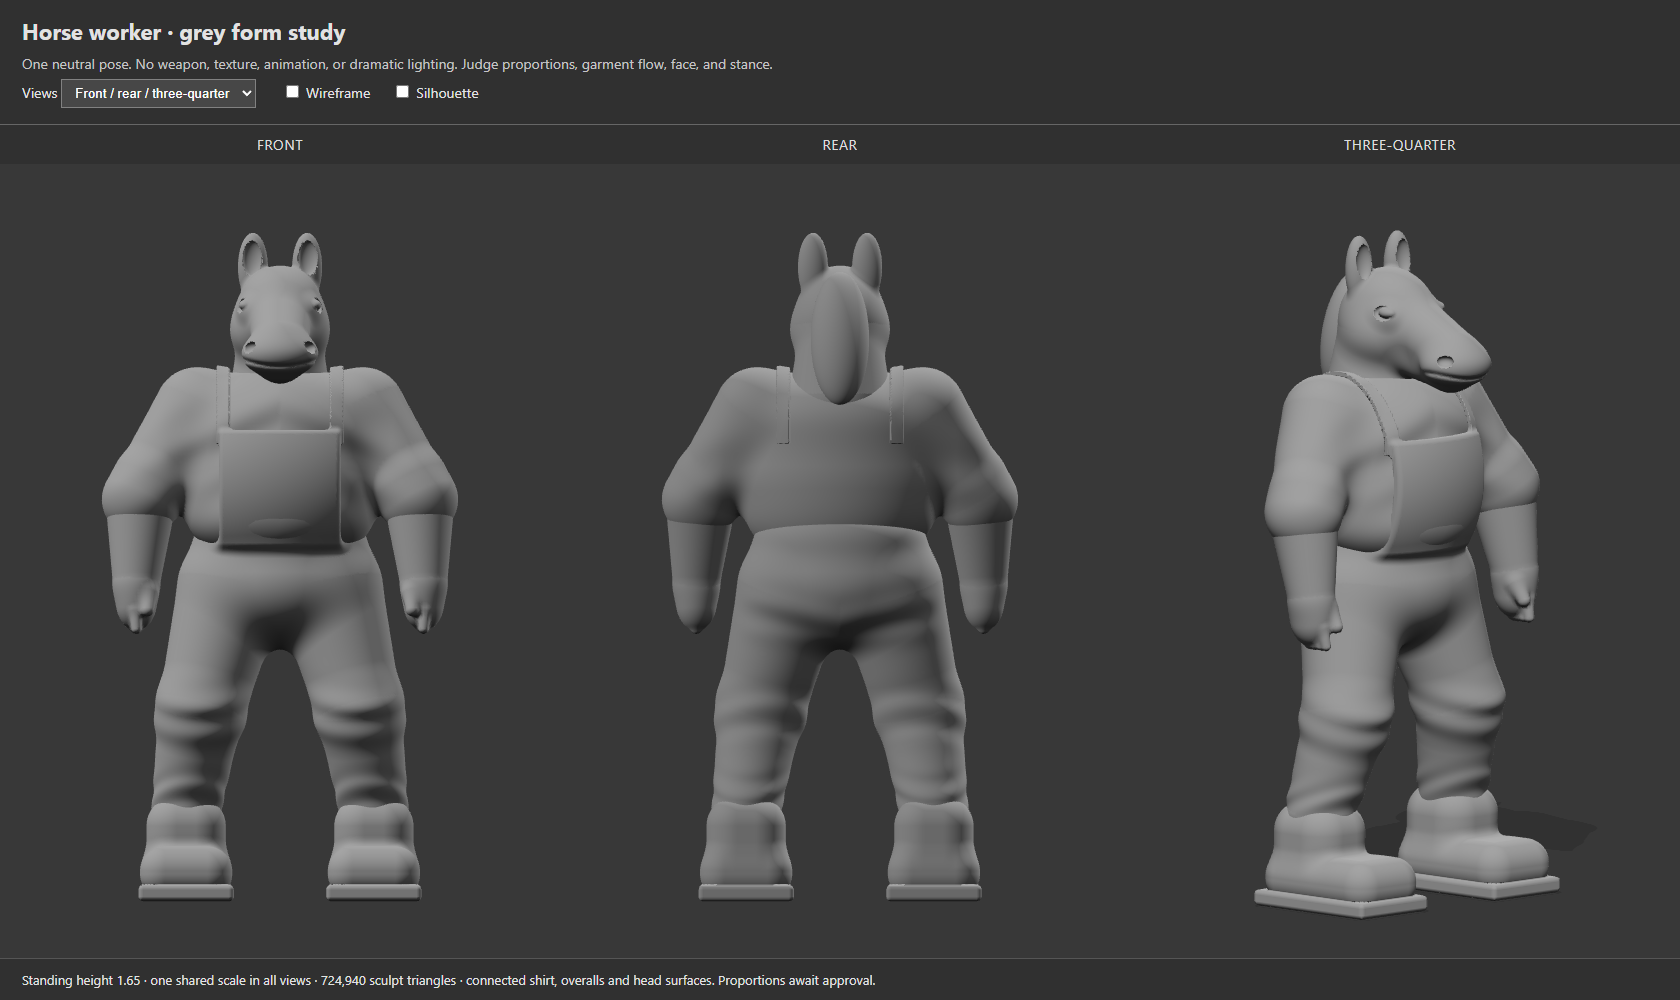
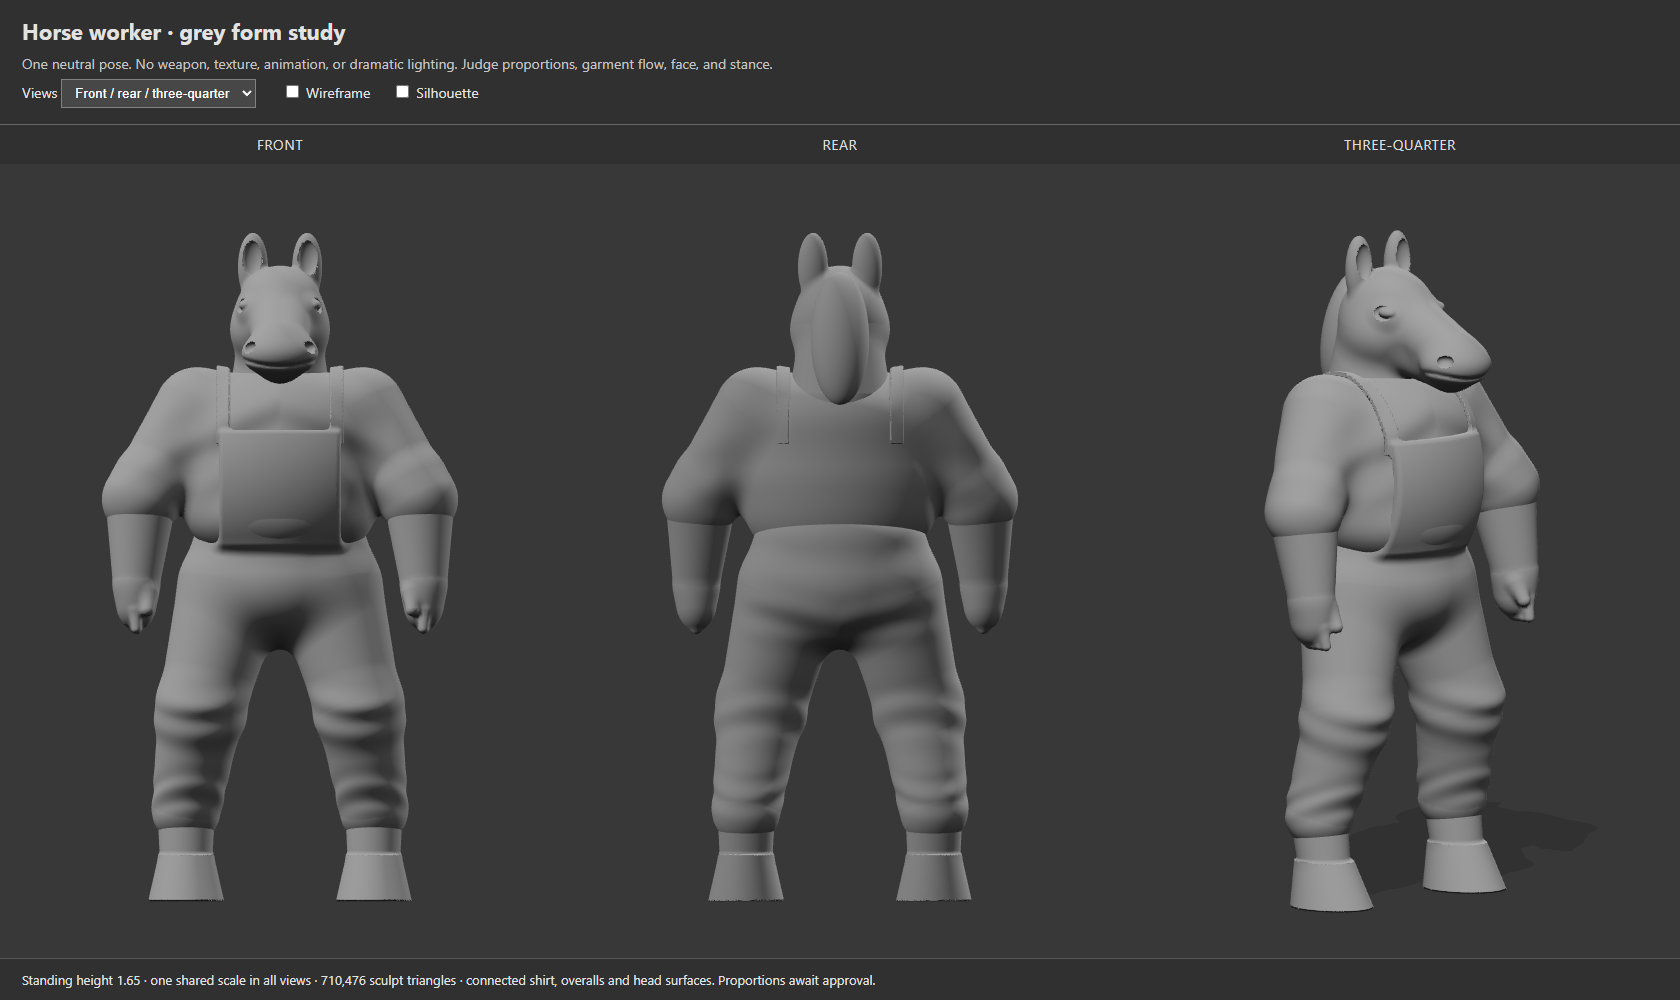
Replace grey horse boots with exposed hooves

diff --git a/dist/tactics/horse-grey-model.js b/dist/tactics/horse-grey-model.js
@@ -55,16 +55,18 @@ export function createGreyHorse(){
    return d;
   }
   add('forearm and hand '+side,arm,[-.085,.64,side*.35-.14],[.16,1.08,side*.35+.14],.008);
-  function boot(x,y,z){
+  function hoof(x,y,z){
    const zz=z-side*.232;
-   let d=B(x,y,zz,[.040,.071,0],[.185,.064,.114],.060);
-   d=blend(d,B(x,y,zz,[-.034,.161,0],[.105,.099,.098],.074),.027);
-   d=Math.min(d,B(x,y,zz,[.040,.020,0],[.191,.020,.118],.011));
-   // A shallow vamp break where the ankle bends into the weight-bearing toe.
-   d+=.003*exp(-(((x-.055)/.035)**2))*exp(-(((y-.125)/.030)**2));
+   // Exposed single horse hoof: sloped wall, broad bearing rim and narrower coronet.
+   // No footwear sole, heel block or elongated boot toe.
+   const t=Math.max(0,Math.min(1,y/.115));
+   const cx=.009-.027*t,rx=.113-.033*t,rz=.094-.026*t;
+   let d=Math.max((Math.hypot((x-cx)/rx,zz/rz)-1)*Math.min(rx,rz),-y,y-.115);
+   // Short pastern enters the trouser opening above the hoof capsule.
+   d=blend(d,C(x,y,zz,[-.018,.105,0],[-.034,.205,0],.065,.070),.010);
    return d;
   }
-  add('work boot '+side,boot,[-.17,-.012,side*.232-.145],[.25,.29,side*.232+.145],.008);
+  add('exposed hoof '+side,hoof,[-.13,-.012,side*.232-.12],[.15,.29,side*.232+.12],.006);
  }
 
  function head(x,y,z){

diff --git a/docs/tactics/HYBRID-GREY-FORM-STUDY.md b/docs/tactics/HYBRID-GREY-FORM-STUDY.md
@@ -2,9 +2,9 @@
 
 This separate study responds to the request for deliberate character modeling before further texture or animation work. Open `/tactics/horse-grey.html` for neutral standing front, side and three-quarter views at a shared orthographic scale. The middle view can show the rear; silhouette and wireframe controls support form inspection.
 
-The shirt and sleeves form one connected surface. The overalls join the bib, straps, waist, seat and both legs. The horse skull, cheeks, jaw, neck, ears and eye forms share one surface. Substantial forearms, a broad stance and heavy work boots restore the worker silhouette. Modeled folds describe sleeve compression and fabric around the knees, ankles and seat. All parts use the same plain grey material without texture maps.
+The shirt and sleeves form one connected surface. The overalls join the bib, straps, waist, seat and both legs. The horse skull, cheeks, jaw, neck, ears and eye forms share one surface. Substantial forearms, a broad stance and exposed horse hooves restore the worker silhouette. Modeled folds describe sleeve compression and fabric around the knees, ankles and seat. All parts use the same plain grey material without texture maps.
 
-Standing height remains 1.65 world units, with both boot soles at zero. Tactical rules and the existing renderer are unchanged. This is a static sculpt/proportion study: its 724,940 triangles are not a proposed gameplay budget. Retopology, UV authoring and rigging remain future work after the user approves the forms.
+Standing height remains 1.65 world units, with both hoof bearing surfaces at zero. Tactical rules and the existing renderer are unchanged. This is a static sculpt/proportion study: its 710,476 triangles are not a proposed gameplay budget. Retopology, UV authoring and rigging remain future work after the user approves the forms.
 
 ## Evidence and review
 
@@ -19,3 +19,9 @@ The hostile reviewer initially scored the study 8/10. Sleeve, forearm, eye, mout
 Validation passed: `node --test tests/horse-grey.test.mjs` and `node tools/horse-grey-review.mjs`. Geometry checks verify finite positions/normals, one connected component per part, closed manifold edges, the approved standing height, grounded soles and untextured materials. Browser checks found no page or network errors. The build manifest includes all four new viewer/model modules.
 
 The previous high-detail textured experiment remains separate and uncommitted. This study introduces no new texture or animation. **User approval of these forms is pending.**
+
+## Exposed hoof correction
+
+The original `dist/assets/characters/armed/horse-rifle.png` shows exposed hooves below the trousers. Replaced the footwear shapes with single sloped hoof capsules and short exposed pasterns, removing the long boot toes, sole slabs and boot shafts. The neutral pose and approved standing height remain unchanged. Refreshed all four review images; geometry and browser checks pass.
+
+Independent hostile review scored this bounded hoof correction **9/10**, with an independent geometry-test pass. This does not approve the full character or authorize texture/animation work.
